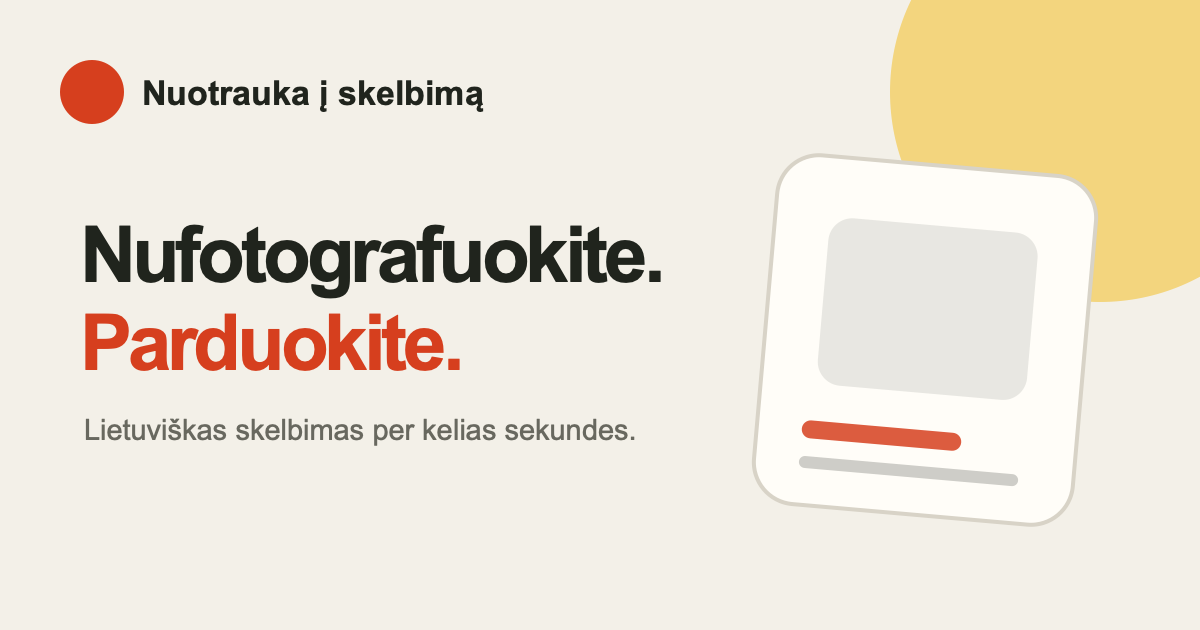
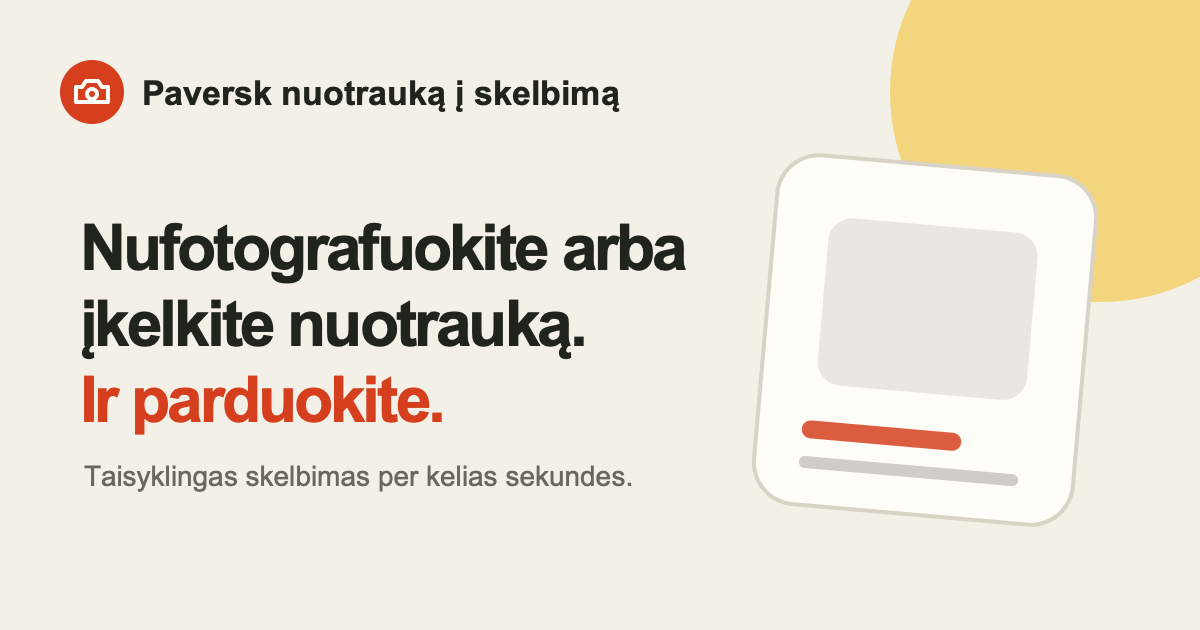
Remove template content and refresh Lithuanian branding

Changed region(s): [[0.0617, 0.3317, 0.5858, 0.7841], [0.1233, 0.1206, 0.5242, 0.181], [0.0617, 0.1206, 0.0925, 0.181]]

diff --git a/app/photo-listing-app.tsx b/app/photo-listing-app.tsx
@@ -38,39 +38,6 @@ type Stage = 'home' | 'analyzing' | 'edit' | 'detail';
 type EditableDraft = Omit<ListingDraft, 'suggested_price'> & { price: string };
 type AnalysisError = { error?: string };
 
-const SAMPLE_LISTINGS: Listing[] = [
-  {
-    id: 'sample-camera',
-    imageUrl: '/demo-camera.jpg',
-    title: 'Naudotas vintažinis momentinis fotoaparatas',
-    description: 'Klasikinio dizaino momentinis fotoaparatas. Ant korpuso matyti nedidelių naudojimo žymių, tačiau išoriškai jis atrodo geros būklės. Prieš perkant rekomenduojama patikrinti veikimą ir komplektaciją.',
-    category: 'Elektronika',
-    condition: 'Geras',
-    price: 45,
-    createdAt: '2026-09-02T21:45:00.000Z',
-  },
-  {
-    id: 'sample-chair',
-    imageUrl: '/demo-chair.jpg',
-    title: 'Naudota ąžuolinė valgomojo kėdė',
-    description: 'Tvirta natūralaus medžio valgomojo kėdė. Medinis paviršius atrodo prižiūrėtas, o konstrukcija – nepažeista. Matyti tik nežymių naudojimo žymių.',
-    category: 'Baldai',
-    condition: 'Kaip naujas',
-    price: 68,
-    createdAt: '2026-09-02T21:31:00.000Z',
-  },
-  {
-    id: 'sample-backpack',
-    imageUrl: '/demo-backpack.jpg',
-    title: 'Naudota raudona 30 l žygių kuprinė',
-    description: 'Raudona 30 litrų žygių kuprinė su reguliuojamais pečių diržais ir keliomis kišenėmis. Audinys atrodo švarus, matomų pažeidimų nėra. Tinka dienos žygiams ir trumpoms kelionėms.',
-    category: 'Sportas',
-    condition: 'Geras',
-    price: 32,
-    createdAt: '2026-09-01T16:20:00.000Z',
-  },
-];
-
 const allowedTypes = ['image/jpeg', 'image/png', 'image/webp', 'image/heic', 'image/heif'];
 
 const imageTypesByExtension: Record<string, string> = {
@@ -170,10 +137,7 @@ export function PhotoListingApp() {
     };
   }, [previewUrl]);
 
-  const allListings = useMemo(
-    () => [...published, ...SAMPLE_LISTINGS.filter((sample) => !published.some((item) => item.id === sample.id))],
-    [published],
-  );
+  const allListings = published;
 
   const visibleListings = useMemo(
     () => (activeCategory === 'Visi' ? allListings : allListings.filter((item) => item.category === activeCategory)),

diff --git a/app/layout.tsx b/app/layout.tsx
@@ -6,19 +6,19 @@ const geist = Geist({ variable: '--font-geist', subsets: ['latin'] });
 
 export const metadata: Metadata = {
   metadataBase: new URL('https://nuotrauka-i-skelbima.linasitgroup.chatgpt.site'),
-  title: 'Nuotrauka į skelbimą',
-  description: 'Paverskite daikto nuotrauką paruoštu lietuvišku skelbimu per kelias sekundes.',
+  title: 'Paversk nuotrauką į skelbimą',
+  description: 'Iš nuotraukos sukurkite taisyklingą lietuvišką skelbimą su pavadinimu, aprašymu, kategorija ir siūloma kaina.',
   openGraph: {
-    title: 'Nuotrauka į skelbimą',
-    description: 'Nufotografuokite daiktą, paredaguokite DI parengtą skelbimą ir iškart jį paskelbkite.',
+    title: 'Paversk nuotrauką į skelbimą',
+    description: 'Įkelkite prekės nuotrauką, peržiūrėkite DI parengtą skelbimą ir paskelbkite jį.',
     locale: 'lt_LT',
     type: 'website',
-    images: [{ url: '/og.png', width: 1200, height: 630, alt: 'Nuotrauka į skelbimą' }],
+    images: [{ url: '/og.png', width: 1200, height: 630, alt: 'Paversk nuotrauką į skelbimą' }],
   },
   twitter: {
     card: 'summary_large_image',
-    title: 'Nuotrauka į skelbimą',
-    description: 'Lietuviškas skelbimas iš vienos nuotraukos per kelias sekundes.',
+    title: 'Paversk nuotrauką į skelbimą',
+    description: 'Iš nuotraukos sukurkite taisyklingą lietuvišką skelbimą per kelias sekundes.',
     images: ['/og.png'],
   },
 };
